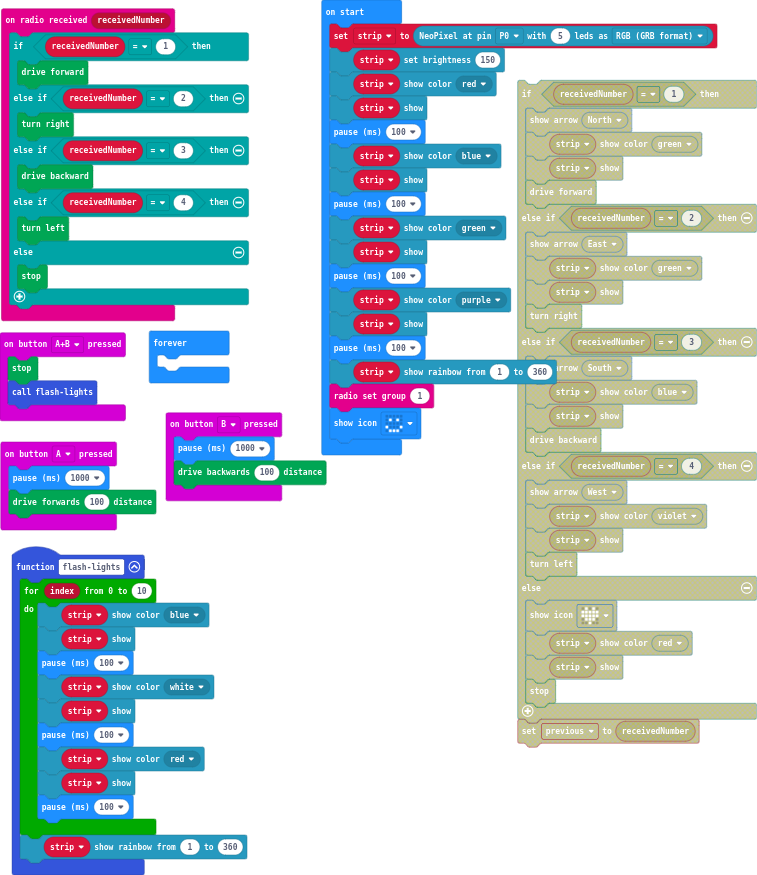
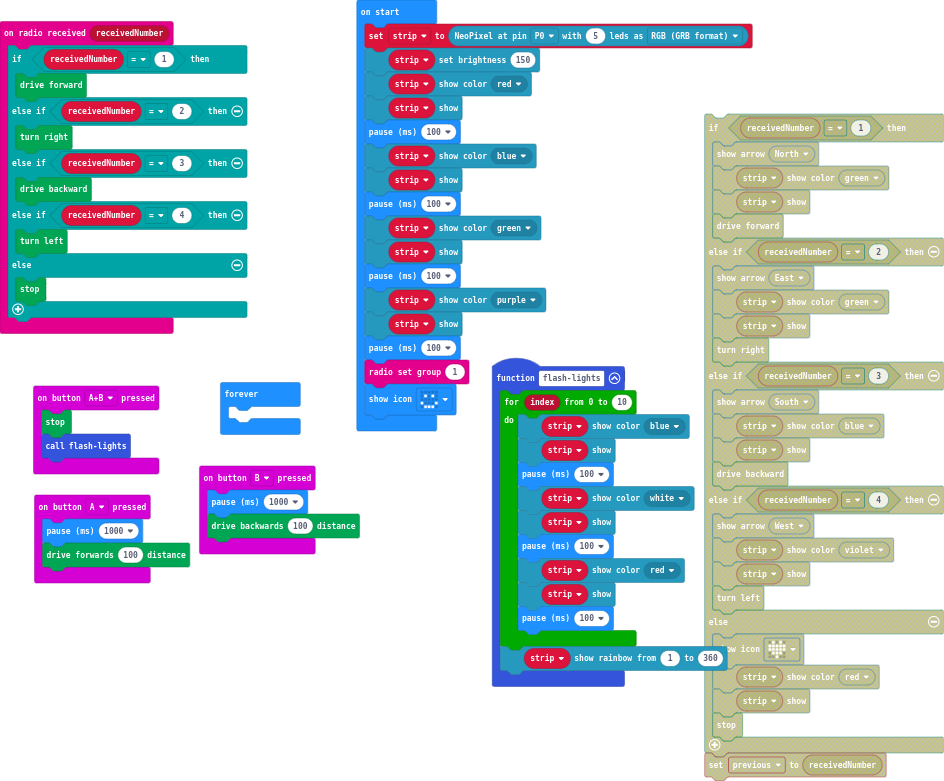
Update main.blocks, main.ts

diff --git a/main.ts b/main.ts
@@ -52,7 +52,6 @@ basic.pause(100)
 strip.showColor(neopixel.colors(NeoPixelColors.Purple))
 strip.show()
 basic.pause(100)
-strip.showRainbow(1, 360)
 radio.setGroup(1)
 basic.showIcon(IconNames.Happy)
 basic.forever(function () {
